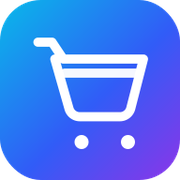
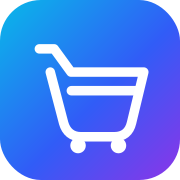
Add files via upload

Changed region(s): [[0.1667, 0.1944, 0.8333, 0.8611]]

diff --git a/styles.css b/styles.css
@@ -2,7 +2,7 @@
 :root{font-family:"DM Sans",system-ui,-apple-system,sans-serif;color-scheme:dark;--bg:#080c1b;--surface:#111a32;--surface2:#172342;--line:#26375e;--text:#f7f8ff;--muted:#a7b2d0;--blue:#08b8f5;--purple:#922cff;--accent:linear-gradient(105deg,#09baf2 0%,#315cf7 52%,#9b22ef 100%);--shadow:0 16px 42px #0005}
 :root[data-theme="light"]{color-scheme:light;--bg:#f5f5ff;--surface:#fff;--surface2:#f0efff;--line:#e1e1f2;--text:#111735;--muted:#66708f;--shadow:0 12px 32px #25235b18}
 *{box-sizing:border-box}body{margin:0;min-height:100vh;background:radial-gradient(ellipse at 50% -10%,#1a2451 0,transparent 45%),var(--bg);color:var(--text)}:root[data-theme="light"] body{background:radial-gradient(ellipse at 50% -10%,#e3dfff 0,transparent 50%),var(--bg)}
-button,input,select{font:inherit}.app-shell{max-width:650px;min-height:100vh;margin:auto;padding:22px 20px 112px;position:relative;overflow:hidden}.topbar{display:flex;align-items:center;justify-content:space-between;position:relative;z-index:1}.brand{display:flex;align-items:center;gap:13px}.brand-icon{width:52px;height:52px;border-radius:17px;background:var(--accent);display:grid;place-items:center;box-shadow:0 8px 24px #592aff55}.brand-icon svg{width:30px;fill:none;stroke:white;stroke-width:1.8;stroke-linecap:round;stroke-linejoin:round}.eyebrow{font-size:10px;letter-spacing:2px;font-weight:800;color:var(--muted)}h1{font-size:23px;margin:1px 0 0;letter-spacing:-.8px}.header-actions{display:flex;gap:8px}.icon-button{border:1px solid var(--line);background:var(--surface);color:var(--text);width:40px;height:40px;border-radius:14px;font-size:20px;cursor:pointer}.wave{height:58px;position:relative;margin:8px -20px 2px;overflow:hidden}.wave span{position:absolute;width:75%;height:60px;border-radius:50%;filter:blur(1px);opacity:.65;top:8px;left:-8%;background:linear-gradient(90deg,#0876d9,#6e2ee8);transform:rotate(-5deg)}.wave span:nth-child(2){left:34%;top:18px;background:linear-gradient(90deg,#174cc7,#a32bf0);transform:rotate(5deg)}.wave span:nth-child(3){left:70%;top:5px;background:#6625b5;opacity:.5}
+button,input,select{font:inherit}.app-shell{max-width:650px;min-height:100vh;margin:auto;padding:22px 20px 112px;position:relative;overflow:hidden}.topbar{display:flex;align-items:center;justify-content:space-between;position:relative;z-index:1}.brand{display:flex;align-items:center;gap:13px}.brand-icon{width:52px;height:52px;border-radius:17px;background:var(--accent);display:grid;place-items:center;box-shadow:0 8px 24px #592aff55}.brand-icon img{width:100%;height:100%;display:block;object-fit:contain;border-radius:inherit}.eyebrow{font-size:10px;letter-spacing:2px;font-weight:800;color:var(--muted)}h1{font-size:23px;margin:1px 0 0;letter-spacing:-.8px}.header-actions{display:flex;gap:8px}.icon-button{border:1px solid var(--line);background:var(--surface);color:var(--text);width:40px;height:40px;border-radius:14px;font-size:20px;cursor:pointer}.wave{height:58px;position:relative;margin:8px -20px 2px;overflow:hidden}.wave span{position:absolute;width:75%;height:60px;border-radius:50%;filter:blur(1px);opacity:.65;top:8px;left:-8%;background:linear-gradient(90deg,#0876d9,#6e2ee8);transform:rotate(-5deg)}.wave span:nth-child(2){left:34%;top:18px;background:linear-gradient(90deg,#174cc7,#a32bf0);transform:rotate(5deg)}.wave span:nth-child(3){left:70%;top:5px;background:#6625b5;opacity:.5}
 .panel{background:linear-gradient(145deg,color-mix(in srgb,var(--surface) 96%,#354b88),var(--surface));border:1px solid var(--line);border-radius:23px;box-shadow:var(--shadow)}.people-strip{display:flex;align-items:center;justify-content:space-between;padding:12px 14px;margin-bottom:14px}.people{display:flex;gap:8px}.person{display:flex;align-items:center;gap:7px;padding:4px 10px 4px 4px;border-radius:30px;background:var(--surface2);font-size:12px;font-weight:600}.person b,.activity-avatar{width:27px;height:27px;border-radius:50%;display:grid;place-items:center;color:white;background:linear-gradient(140deg,#08bdf2,#3159e9)}.person.beth b,.activity-avatar.beth{background:linear-gradient(140deg,#c15af6,#7528d7)}.live-status{font-size:11px;color:var(--muted);display:flex;align-items:center;gap:7px}.live-status i,.live-dot{width:7px;height:7px;border-radius:50%;background:#30df9b;box-shadow:0 0 12px #30df9b}
 .list-panel{padding:17px 15px 12px}.list-heading{display:flex;align-items:center;justify-content:space-between;padding:0 2px 14px;border-bottom:1px solid var(--line)}h2{font-size:18px;margin:0;letter-spacing:-.4px}.list-heading p{margin:4px 0 0;color:var(--muted);font-size:12px}.shared-pill{border-radius:30px;background:#143e47;color:#70f1d0;padding:8px 11px;font-size:11px;font-weight:700}.items{padding:3px 0}.item{display:grid;grid-template-columns:26px minmax(60px,1fr) auto 25px;align-items:center;gap:9px;padding:11px 2px;border-bottom:1px solid var(--line);min-height:54px}.item:last-child{border-bottom:0}.check{appearance:none;width:20px;height:20px;border:2px solid #8491b5;border-radius:50%;cursor:pointer;margin:0}.check:checked{background:linear-gradient(130deg,#0db9e9,#922cff);border-color:transparent;position:relative}.check:checked:after{content:"✓";color:white;position:absolute;left:3px;top:-2px;font-size:14px}.item-name{font-size:14px;font-weight:700;min-width:0;overflow-wrap:anywhere}.item.done .item-name{text-decoration:line-through;color:var(--muted)}.qty{display:flex;align-items:center;gap:7px}.qty button{width:28px;height:28px;border:1px solid var(--line);border-radius:9px;background:var(--surface2);color:var(--text);font-weight:800;cursor:pointer}.qty strong{min-width:16px;text-align:center;font-size:14px}.item-name{border:0;background:none;color:var(--text);text-align:left;padding:4px 0;cursor:pointer;font:inherit;font-size:14px;font-weight:700;min-width:0;overflow-wrap:anywhere}.item.done .item-name{color:var(--muted)}.delete-item{width:27px;height:30px;border:0;border-radius:9px;background:transparent;color:var(--muted);font-size:24px;line-height:1;cursor:pointer}.delete-item:active{background:var(--surface2);color:#ff6b83}.add-row{display:flex;align-items:center;gap:9px;margin-top:11px;padding:5px 8px;border:1px solid var(--line);border-radius:15px;background:var(--surface2)}.add-symbol{font-size:25px;color:var(--blue);background:none;border:0;cursor:pointer}.add-row input{min-width:0;flex:1;border:0;outline:0;background:transparent;color:var(--text);padding:8px 0;font-size:14px}.add-submit{border:0;border-radius:10px;background:var(--accent);color:white;font-weight:700;padding:8px 12px;cursor:pointer}.list-footer{display:flex;justify-content:space-between;padding:11px 2px 0;color:var(--muted);font-size:11px}.text-button{background:none;border:0;color:#9e7bff;cursor:pointer;font-size:11px;font-weight:700}
 .activity-panel{padding:14px 15px;margin-top:14px}.section-heading,.section-heading>div{display:flex;align-items:center;justify-content:space-between;gap:8px}.section-heading h2{font-size:15px}.section-icon{font-size:20px;color:#9f7bff}.live-dot{width:auto;height:auto;border-radius:20px;padding:4px 8px;font-size:9px;color:#7ef2c6;background:#123e3c;box-shadow:none;font-weight:800}.activity-list{padding-top:7px}.activity-row{display:flex;align-items:center;gap:9px;padding:7px 0;font-size:12px}.activity-avatar{width:25px;height:25px;font-size:10px;flex:none}.activity-copy{flex:1;min-width:0}.activity-copy strong{font-weight:700}.activity-time{color:var(--muted);font-size:10px;white-space:nowrap}.share-button,.primary-button{width:100%;border:0;border-radius:17px;background:var(--accent);color:white;font-weight:800;font-size:16px;padding:16px 14px;box-shadow:0 8px 25px #6334e955;cursor:pointer}.share-button{display:flex;align-items:center;justify-content:center;gap:12px;margin-top:15px}.send-icon{font-size:20px;transform:rotate(-25deg)}.share-hint{text-align:center;color:var(--muted);font-size:10px;margin:9px 10px 0}.bottom-nav{position:fixed;z-index:5;bottom:0;left:50%;transform:translateX(-50%);width:min(650px,100%);padding:10px 12px max(12px,env(safe-area-inset-bottom));display:grid;grid-template-columns:repeat(5,minmax(0,1fr));background:color-mix(in srgb,var(--surface) 94%,transparent);border:1px solid var(--line);border-bottom:0;border-radius:22px 22px 0 0;backdrop-filter:blur(18px)}.nav-item{border:0;background:none;color:var(--muted);display:flex;align-items:center;justify-content:center;gap:4px;flex-direction:column;font-size:10px;padding:6px 2px;cursor:pointer}.nav-item span{font-size:19px}.nav-item.active{color:#69baff;font-weight:800}.nav-item.active span{filter:drop-shadow(0 0 7px #536dff)}

diff --git a/index.html b/index.html
@@ -11,7 +11,7 @@
   <link rel="manifest" href="./manifest.webmanifest">
   <link rel="icon" href="./icon.svg" type="image/svg+xml">
   <link rel="apple-touch-icon" sizes="180x180" href="./apple-touch-icon.png">
-  <link rel="stylesheet" href="./styles.css?v=1.7.19.2">
+  <link rel="stylesheet" href="./styles.css?v=1.7.19.3">
   <title>Luke & Beth — Shopping List</title>
 </head>
 <body>
@@ -44,7 +44,7 @@
     </section>
     <header class="topbar">
       <div class="brand">
-        <div class="brand-icon"><svg viewBox="0 0 24 24" aria-hidden="true"><path d="M3 4h2l2.1 11.1a2 2 0 0 0 2 1.6h8.8a2 2 0 0 0 1.9-1.4L22 8H6"/><circle cx="10" cy="20" r="1.3"/><circle cx="18" cy="20" r="1.3"/></svg></div>
+        <div class="brand-icon"><img src="./icon.svg" alt="" aria-hidden="true"></div>
         <div><div class="eyebrow">LUKE & BETH'S</div><h1>Shopping List</h1></div>
       </div>
       <div class="header-actions">
@@ -149,7 +149,7 @@
         <section class="more-section"><h3>Beth's pickup colours</h3><p class="more-description">Choose when the finish-time badges change from green to amber and from amber to red.</p><div class="pickup-colour-settings"><label for="pickupGreenUntil">Green until</label><input id="pickupGreenUntil" type="time" value="16:00"><label for="pickupAmberUntil">Amber until</label><input id="pickupAmberUntil" type="time" value="18:00"></div><p class="more-description">Finishes before the first time are green. Finishes up to and including the second time are amber. Later finishes are red.</p><p id="pickupColourStatus" class="more-description" role="status">Default times: 16:00 and 18:00.</p><button id="resetPickupColours" class="secondary-button compact" type="button">Reset default times</button></section>
         <section class="more-section"><h3>Personal settings</h3><p class="more-description">Your theme preference only affects this device.</p><label for="moreThemeSelect">My theme</label>
           <select id="moreThemeSelect"><option value="dark">Dark</option><option value="light">Light</option><option value="system">Follow device</option></select><button id="moreSignOut" class="text-button" type="button">Sign out</button></section>
-        <p class="app-version">Luke & Beth's Shopping List · Version 1.7.19.2</p>
+        <p class="app-version">Luke & Beth's Shopping List · Version 1.7.19.3</p>
       </section>
 
       <section id="listStatusCard" class="list-status-card status-neutral" aria-live="polite">
@@ -367,6 +367,6 @@
   </div>
   <div id="toast" class="toast" role="status" aria-live="polite"></div>
   <script src="https://cdn.jsdelivr.net/npm/@supabase/supabase-js@2"></script>
-  <script src="./app.js?v=1.7.19.2"></script>
+  <script src="./app.js?v=1.7.19.3"></script>
 </body>
 </html>

diff --git a/app.js b/app.js
@@ -1266,7 +1266,7 @@ function wire(){
 async function init(){state.menuStart=localISO(mondayOf(new Date()));theme();wire();handleCalendarReturn();setInterval(()=>{if(state.items.length)renderItems();updateDashboardDateTime();},60*1000);setInterval(()=>{if(document.visibilityState==="visible"&&state.user){refreshCurrentList();refreshActivity();refreshListStatus();if(!$("#menuPanel").classList.contains("hidden"))loadMenu();}},4000);document.addEventListener("visibilitychange",()=>{if(document.visibilityState==="visible")refreshActivity();});const {data:{session}}=await db.auth.getSession();if(session?.user){state.user=session.user;try{await enter();}catch(e){loggedOut();msg("#authMessage",e.message,true);}}else loggedOut();db.auth.onAuthStateChange(async(_,session)=>{if(session?.user&&!state.user){state.user=session.user;try{await enter();}catch(e){msg("#authMessage",e.message,true);}}});if("serviceWorker"in navigator&&location.protocol.startsWith("http")){
   let refreshing=false;
   navigator.serviceWorker.addEventListener("controllerchange",()=>{if(!refreshing){refreshing=true;location.reload();}});
-  navigator.serviceWorker.register("./sw.js?v=1.7.19.0",{updateViaCache:"none"}).then(reg=>{
+  navigator.serviceWorker.register("./sw.js?v=1.7.19.3",{updateViaCache:"none"}).then(reg=>{
    const showUpdate=worker=>{if(!worker)return;waitingWorker=worker;$("#updateBanner").hidden=false;$("#applyUpdate").disabled=false;$("#applyUpdate").textContent="Update now";};
    const inspectRegistration=()=>{if(reg.waiting&&navigator.serviceWorker.controller)showUpdate(reg.waiting);};
    inspectRegistration();

diff --git a/sw.js b/sw.js
@@ -1,4 +1,4 @@
-const CACHE="luke-beth-shopping-v82";
+const CACHE="luke-beth-shopping-v83";
 const CORE=["./","./index.html","./styles.css","./app.js","./manifest.webmanifest","./icon.svg","./icon-192.png","./icon-512.png","./apple-touch-icon.png","./images/sausages.png","./images/bangers-mash.png","./images/chicken-nuggets.png","./images/fish-fingers.png","./images/shepherds-pie.png","./images/spaghetti-bolognese.png","./images/chicken-fajitas.png","./images/roast-dinner.png","./images/macaroni-cheese.png","./images/chicken-curry.png","./images/beans-toast.png","./images/chips.png","./images/pancakes.png","./images/pizza.png","./images/tomato-soup.png","./images/fish-chips.png"];
 self.addEventListener("install",event=>event.waitUntil((async()=>{const cache=await caches.open(CACHE);await cache.addAll(CORE);})()));
 self.addEventListener("activate",event=>event.waitUntil((async()=>{const keys=await caches.keys();await Promise.all(keys.filter(key=>key!==CACHE).map(key=>caches.delete(key)));await self.clients.claim();})()));

diff --git a/README.md b/README.md
@@ -1,3 +1,9 @@
+Luke & Beth Shared Shopping List — Version 1.7.19.3
+Branding refinement: optically balanced the shopping trolley artwork and applied the same gradient logo to the PWA app icons, Android launch splash icon and in-app header. Updated cache/version references. No SQL or Edge Function changes.
+
+Luke & Beth Shared Shopping List — Version 1.7.19.3
+Branding refinement: optically balanced the shopping trolley artwork and applied the same gradient logo to the PWA app icons, Android launch splash icon and in-app header. Updated cache/version references. No SQL or Edge Function changes.
+
 Luke & Beth Shared Shopping List — Version 1.7.18.10
 Shopping tab spacing correction: set the top margin above the household member strip to 18px, matching the Dashboard spacing. Corrects the previous 1.7.18.9 adjustment. No SQL changes.
 
